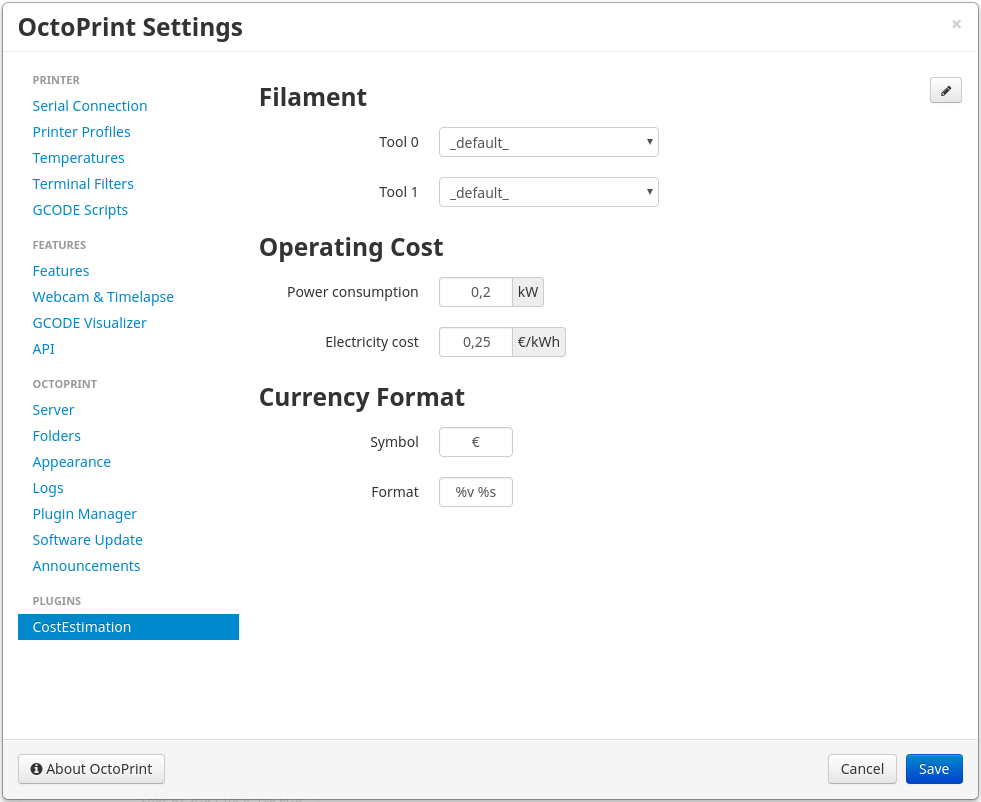
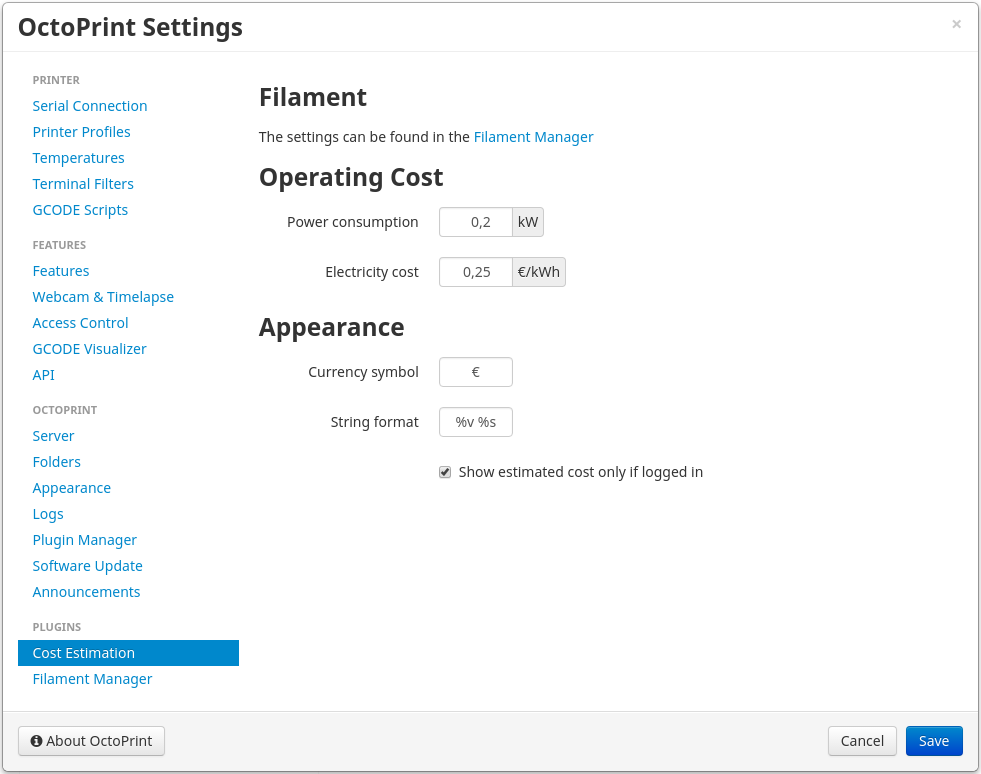
Added plugin filamentmanager

diff --git a/_plugins/filamentmanager.md b/_plugins/filamentmanager.md
@@ -1,0 +1,41 @@
+---
+layout: plugin
+
+id: filamentmanager
+title: FilamentManager
+description: This OctoPrint plugin helps to manage your filament spools
+author: Sven Lohrmann
+license: AGPLv3
+date: 2017-08-22
+homepage: https://github.com/malnvenshorn/OctoPrint-FilamentManager
+source: https://github.com/malnvenshorn/OctoPrint-FilamentManager
+archive: https://github.com/malnvenshorn/OctoPrint-FilamentManager/archive/master.zip
+compatibility:
+  octoprint:
+  - 1.2.14
+tags:
+- ui
+- filament
+- manager
+screenshots:
+- url: /assets/img/plugins/filamentmanager/filamentmanager_sidebar.png
+  alt: Sidebar
+  caption: Sample view of filament weight in the sidebar
+- url: /assets/img/plugins/filamentmanager/filamentmanager_settings_profile.png
+  alt: Profiles
+  caption: View of filament profile editor
+- url: /assets/img/plugins/filamentmanager/filamentmanager_settings_spool.png
+  alt: Spool
+  caption: View of filament spool editor
+- url: /assets/img/plugins/filamentmanager/filamentmanager_settings.png
+  alt: Settings
+  caption: Settings dialog to manage the filament
+---
+
+This OctoPrint plugin helps to manage your filament spools.
+
+#### Additional features
+
+- Replacing filament volume with weight in sidebar
+- Filament odometer to keep track of remaining filament on spool
+- Enable warning if print exceeds remaining filament on spool

diff --git a/_plugins/costestimation.md b/_plugins/costestimation.md
@@ -20,9 +20,6 @@ screenshots:
 - url: /assets/img/plugins/costestimation/costestimation.png
   alt: Cost
   caption: Sample view of estimated print cost in the sidebar
-- url: /assets/img/plugins/costestimation/costestimation_manager.png
-  alt: FilamentManager
-  caption: Dialog to manage filament profiles
 - url: /assets/img/plugins/costestimation/costestimation_settings.png
   alt: Settings
   caption: Settings dialog to configure the print cost
@@ -30,9 +27,12 @@ screenshots:
 
 This OctoPrint plugin displays the estimated print cost for the loaded model. The print cost includes the price for the used filament and the operating cost for the printer.
 
-**Features**
+The [Filament Manager Plugin](/plugins/filamentmanager) **is required**. Make sure it is installed.
 
-- Calculation based on the provided length or volume
+#### Features
+
+- Calculation based on the provided filament length
 - Customizable currency symbol
-- Support for filament profiles
+- Hide cost if not logged in (optional)
 - Support for multiple extruders
+- Support for filament profiles with [Filament Manager Plugin](/plugins/filamentmanager)
